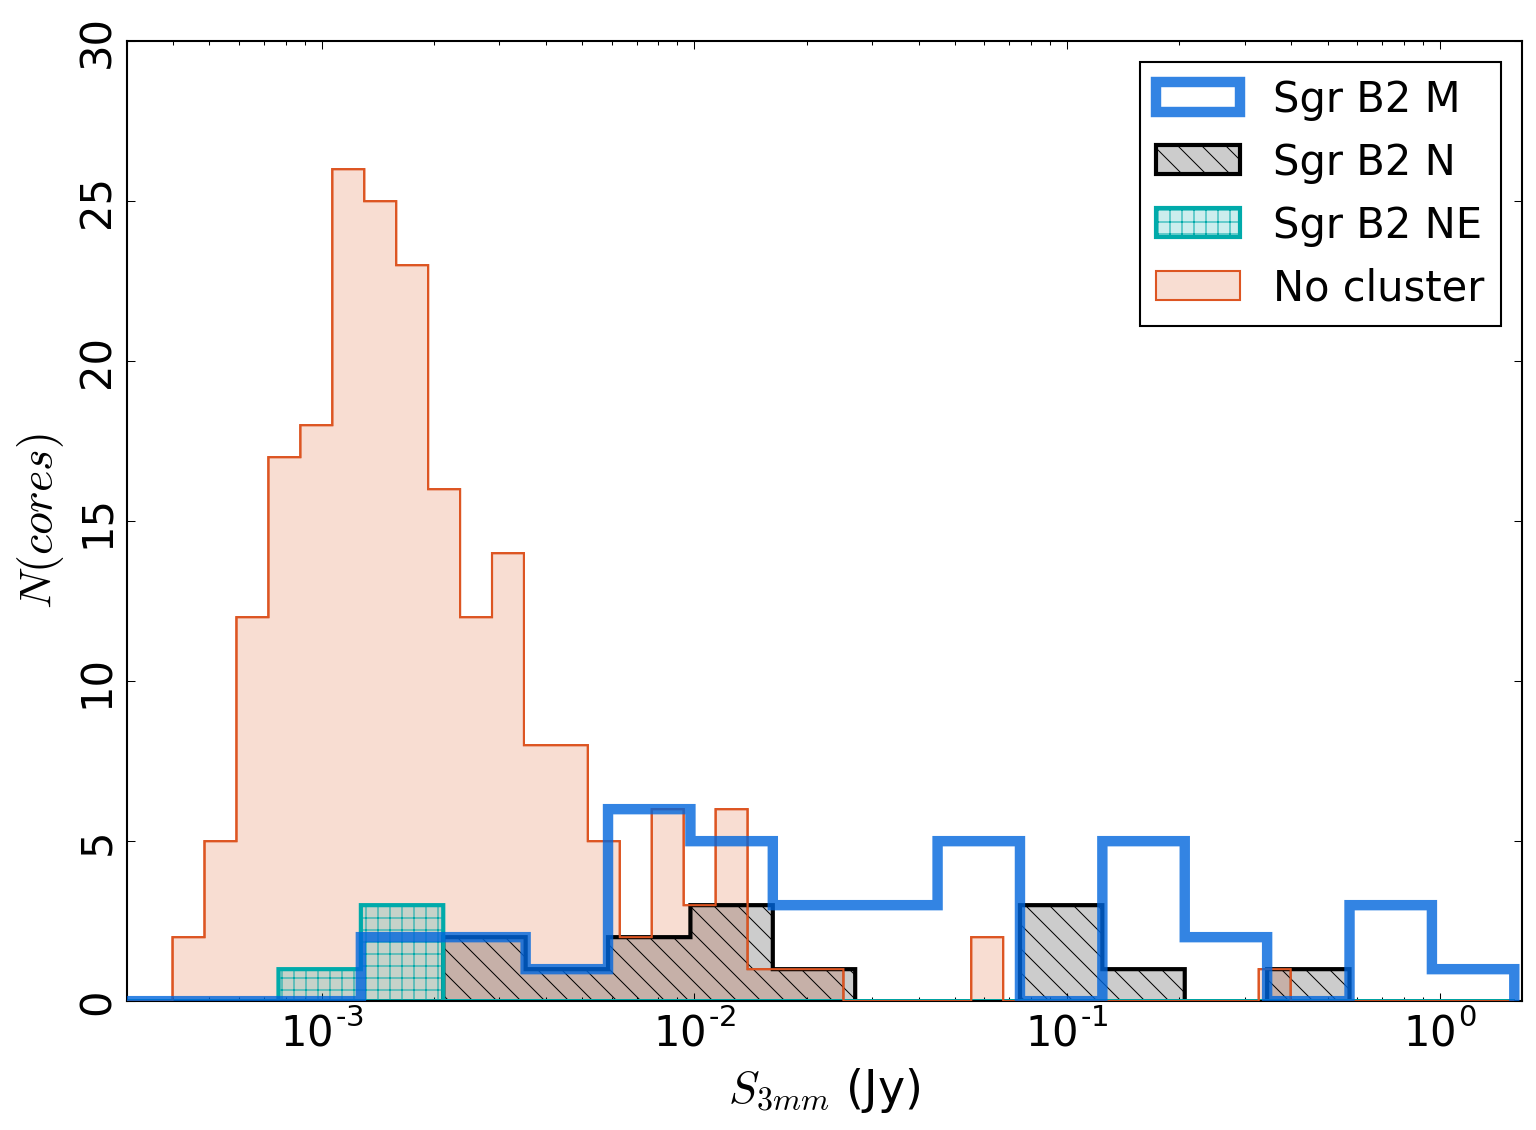
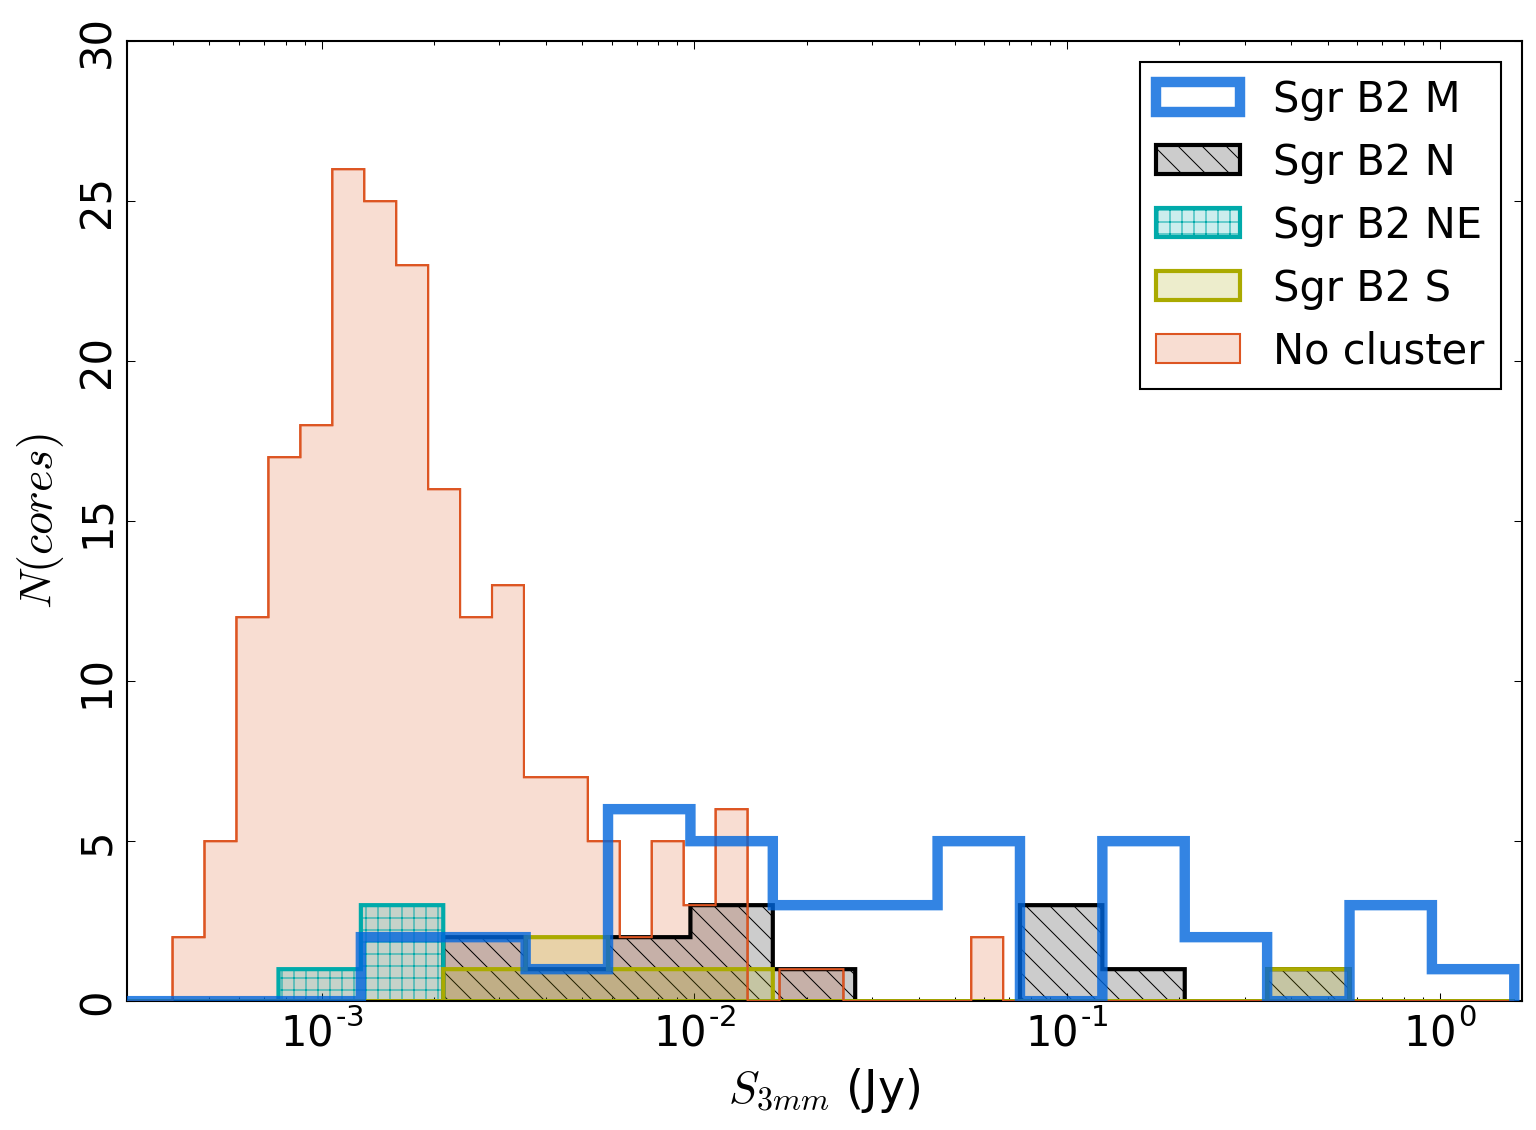
some serious corrections to the total mass table

diff --git a/analysis/stellar_mass_estimates.py b/analysis/stellar_mass_estimates.py
@@ -113,7 +113,7 @@ tbl = Table(names=['Name', '$N(cores)$', '$N(H\\textsc{ii})$', '$M_{count}$',
                    '$M_{inferred}$', '$M_{inferred, H\\textsc{ii}}$',
                    '$M_{inferred, cores}$', '$M_{count}^s$', '$M_{inf}^s$',
                    'SFR'],
-            dtype=['S10', int, int, int, int, int, int, int, int, float])
+            dtype=['S12', int, int, int, int, int, int, int, int, float])
 
 for col in tbl.colnames:
     if 'M' in col:
@@ -127,6 +127,7 @@ print("Mass fraction M>20 = {0}".format(over20fraction))
 print("Mean mass M>20 = {0}".format(over20mean))
 print("Mass fraction 8<M<20 = {0}".format(over8lt20fraction))
 print("Mean mass 8<M<20 = {0}".format(over8lt20mean))
+allclusters = np.zeros_like(hii, dtype='bool')
 for reg in clusters:
     mask = reg.contains(core_coords, arbitrary_wcs)
     nhii = (hii & mask).sum()
@@ -154,21 +155,59 @@ for reg in clusters:
         sst_mask = schmiedeke_summary_table['Name'] == 'Sgr B2({0})'.format(name)
         cluster_column[mask] = name
 
-    tbl.add_row([name,
-                 ncores,
-                 nhii,
-                 latex_info.round_to_n(mass,2)*u.M_sun,
-                 latex_info.round_to_n(inferred_mass, 2)*u.M_sun,
-                 latex_info.round_to_n(hii_only_inferred_mass, 2)*u.M_sun,
-                 latex_info.round_to_n(core_inferred_mass, 2)*u.M_sun,
-                 schmiedeke_summary_table[sst_mask]['M∗ initial']*u.M_sun,
-                 schmiedeke_summary_table[sst_mask]['M∗ all']*1e3*u.M_sun,
-                 latex_info.round_to_n(inferred_mass/sgrb2_age_myr/1e6,2)*u.M_sun/u.yr,
-                ])
+        allclusters += mask
+        print(allclusters.sum())
+
+    row = [name,
+           ncores,
+           nhii,
+           latex_info.round_to_n(mass,2)*u.M_sun,
+           latex_info.round_to_n(inferred_mass, 2)*u.M_sun,
+           latex_info.round_to_n(hii_only_inferred_mass, 2)*u.M_sun,
+           latex_info.round_to_n(core_inferred_mass, 2)*u.M_sun,
+           schmiedeke_summary_table[sst_mask]['M∗ initial']*u.M_sun,
+           schmiedeke_summary_table[sst_mask]['M∗ all']*1e3*u.M_sun,
+           latex_info.round_to_n(inferred_mass/sgrb2_age_myr/1e6,2)*u.M_sun/u.yr,
+          ]
+
+    if name == 'Total':
+        totalrow = row
+    else:
+        tbl.add_row(row)
+
+# now get the non-clustered total
+mask = ~allclusters
+nhii = (hii & mask).sum()
+ncores = ((~hii) & mask).sum()
+
+mass = ncores * over8lt20mean + nhii * over20mean
+# the fractions are fractions-of-total, so we're estimating the total mass
+# from each independent population assuming they're the same age
+hii_only_inferred_mass = nhii * over20mean / over20fraction
+core_inferred_mass = ncores * over8lt20mean / over8lt20fraction
+inferred_mass = (core_inferred_mass +
+                 hii_only_inferred_mass) / 2.
+
+tbl.add_row(['Unassociated',
+             ncores,
+             nhii,
+             latex_info.round_to_n(mass,2)*u.M_sun,
+             latex_info.round_to_n(inferred_mass, 2)*u.M_sun,
+             latex_info.round_to_n(hii_only_inferred_mass, 2)*u.M_sun,
+             latex_info.round_to_n(core_inferred_mass, 2)*u.M_sun,
+             -999,
+             -999,
+             latex_info.round_to_n(inferred_mass/sgrb2_age_myr/1e6,2)*u.M_sun/u.yr,
+            ])
+tbl.add_row(totalrow)
 
 
 
-formats = {'SFR': lambda x: latex_info.strip_trailing_zeros(str(x))}
+
+formats = {'SFR': lambda x: latex_info.strip_trailing_zeros(str(x)),
+           '$M_{inf}^s$': lambda x: "{0}".format(x) if x != -999 else '-',
+           '$M_{count}^s$': lambda x: "{0}".format(x) if x != -999 else '-',
+          }
 
 latexdict = latex_info.latexdict.copy()
 latexdict['header_start'] = '\label{tab:clustermassestimates}'
@@ -192,9 +231,11 @@ latexdict['tablefoot'] = ("\par\n"
                           "\citet{{Kruijssen2015a}} model."
                           "  The \emph{{total}} column represents the total over the whole observed "
                           "region.  "
-                          "  The clusters sum to much less "
-                          "than the \emph{{total}} because the Deep South region is not included, "
-                          "and it dominates the overall core count."
+                          "Note that there are \hii regions included in these counts from \citet{{Schmiedeke2016a}} that are "
+                          "\emph{{not}} included in our table because they are too diffuse or because they are unresolved in "
+                          "our data, but were resolved in the \citet{{De-Pree2014a}} VLA data.  As a result, "
+                          "the unassociated \hii region count is incomplete; it is missing both diffuse \hii "
+                          "regions and possibly unresolved hypercompact \hii regions."
                           .format(over8lt20mean, over20mean, over8lt20fraction,
                                   over20fraction)
                          )

diff --git a/tex_cores/cluster_mass_estimates.tex b/tex_cores/cluster_mass_estimates.tex
@@ -10,9 +10,10 @@ M & 17 & 47 & 2300 & 8800 & 15000 & 2300 & 1295 & 20700 & 0.012 \\
 N & 11 & 3 & 270 & 1200 & 980 & 1500 & 150 & 2400 & 0.0017 \\
 NE & 4 & 0 & 48 & 270 & 0 & 540 & 52 & 1200 & 0.00037 \\
 S & 5 & 1 & 110 & 500 & 330 & 680 & 50 & 1100 & 0.00068 \\
+Unassociated & 203 & 6 & 2700 & 15000 & 2000 & 27000 & - & - & 0.02 \\
 Total & 240 & 57 & 5500 & 26000 & 19000 & 33000 & 1993 & 33400 & 0.035 \\
 \hline
 \end{tabular}
 \par
-$M_{count}$ is the mass of directly counted protostars, assuming each millimeter source is 12.0 \msun, or 45.5 \msun if it is also an \hii region.  $M_{inferred,cores}$ and $M_{inferred,\hii}$ are the inferred total stellar masses assuming the counted objects represent fractions of the total mass 0.09 (cores) and 0.14 (\hii regions).  $M_{inferred}$ is the average of these two.  $M_{count}^s$ and $M_{inf}^s$ are the counted and inferred masses reported in \citet{Schmiedeke2016a}.  The star formation rate is computed using $M_{inferred}$ and an age $t=0.74$ Myr, which is the time of the last pericenter passage in the \citet{Kruijssen2015a} model.  The \emph{total} column represents the total over the whole observed region.    The clusters sum to much less than the \emph{total} because the Deep South region is not included, and it dominates the overall core count.
+$M_{count}$ is the mass of directly counted protostars, assuming each millimeter source is 12.0 \msun, or 45.5 \msun if it is also an \hii region.  $M_{inferred,cores}$ and $M_{inferred,\hii}$ are the inferred total stellar masses assuming the counted objects represent fractions of the total mass 0.09 (cores) and 0.14 (\hii regions).  $M_{inferred}$ is the average of these two.  $M_{count}^s$ and $M_{inf}^s$ are the counted and inferred masses reported in \citet{Schmiedeke2016a}.  The star formation rate is computed using $M_{inferred}$ and an age $t=0.74$ Myr, which is the time of the last pericenter passage in the \citet{Kruijssen2015a} model.  The \emph{total} column represents the total over the whole observed region.  Note that there are \hii regions included in these counts from \citet{Schmiedeke2016a} that are \emph{not} included in our table because they are too diffuse or because they are unresolved in our data, but were resolved in the \citet{De-Pree2014a} VLA data.  As a result, the unassociated \hii region count is incomplete; it is missing both diffuse \hii regions and possibly unresolved hypercompact \hii regions.
 \end{table*}

diff --git a/analysis/core_flux_distributions.py b/analysis/core_flux_distributions.py
@@ -68,6 +68,7 @@ ax1 = fig1.gca()
 clusterM = core_phot_tbl['Cluster'] == 'M'
 clusterN = core_phot_tbl['Cluster'] == 'N'
 clusterNE = core_phot_tbl['Cluster'] == 'NE'
+clusterS = core_phot_tbl['Cluster'] == 'S'
 
 #hs,l,p = ax1.hist([core_phot_tbl['peak'][clusterM],
 #                   core_phot_tbl['peak'][clusterN],
@@ -113,13 +114,19 @@ hNE,l,pNE = ax1.hist(core_phot_tbl['peak'][clusterNE], label='Sgr B2 NE',
                      edgecolor='#00AAAA',
                      facecolor=(0, 0xAA/256, 0xAA/256, 0.2),
                      bins=np.logspace(-4,0.2,20),)
-hOther,l,pOther = ax1.hist(core_phot_tbl['peak'][~(clusterNE|clusterM|clusterN)],
+hS,l,pS = ax1.hist(core_phot_tbl['peak'][clusterS], label='Sgr B2 S',
+                     histtype='stepfilled',
+                     linewidth=2,
+                     edgecolor='#AAAA00',
+                     facecolor=(0xAA/256, 0xAA/256, 0, 0.2),
+                     bins=np.logspace(-4,0.2,20),)
+hOther,l,pOther = ax1.hist(core_phot_tbl['peak'][~(clusterNE|clusterM|clusterN|clusterS)],
                            label='No cluster', edgecolor='#DD5522',
                            facecolor=(0xDD/256., 0x55/256., 0x22/256., 0.2),
                            histtype='stepfilled',
                            zorder=-5,
                            bins=np.logspace(-4,0.2,50),)
-hOther,l,p = ax1.hist(core_phot_tbl['peak'][~(clusterNE|clusterM|clusterN)],
+hOther,l,p = ax1.hist(core_phot_tbl['peak'][~(clusterNE|clusterM|clusterN|clusterS)],
                       edgecolor='#DD5522',
                       histtype='step',
                       label=None,

diff --git a/tex_cores/sgrb2_cores.tex b/tex_cores/sgrb2_cores.tex
@@ -1981,10 +1981,10 @@ local clouds does not match Sgr B2.  We evaluate several possibilities here:
         occur below a fixed threshold does not explain the difference between
         our data and Gutermuth's, however, because the disagreement occurs at
         the high column densities in which we do observe star formation.
-        However, a higher volume density threshold is plausible.  Such a threshold
-        would imply a lower stellar density at fixed surface density, and would
-        also permit variations in the stellar surface density based on how
-        much dense gas is present.
+        On the other hand, a higher \emph{volume} density threshold is
+        plausible.  Such a threshold would imply a lower stellar density at
+        a given surface density and would  permit variations in the stellar
+        surface density depending on how much dense gas is present.
 
 
 %    \item \emph{Is the \emph{global} star formation efficiency lower at a fixed surface
@@ -2245,7 +2245,7 @@ The DS ridge sources appear to be recently formed.
 
 The expanding \hii regions observed around Sgr B2 M and N (and assumed to be
 associated with them) give a lower limit on their ages \citep[assuming steady
-expansion, which may not be a correct model][]{Peters2010b,De-Pree2014a}.  The
+expansion, which may not be a correct model;][]{Peters2010b,De-Pree2014a}.  The
 HII regions I, J, A1, and K4 have radii $r\approx0.1$ pc \citep{Gaume1995a},
 suggesting their ages are at least $t>10^5$ yr assuming they are expanding into
 a density $n\gtrsim10^5$ \percc \citep{De-Pree1995a,Schmiedeke2016a}.  The
